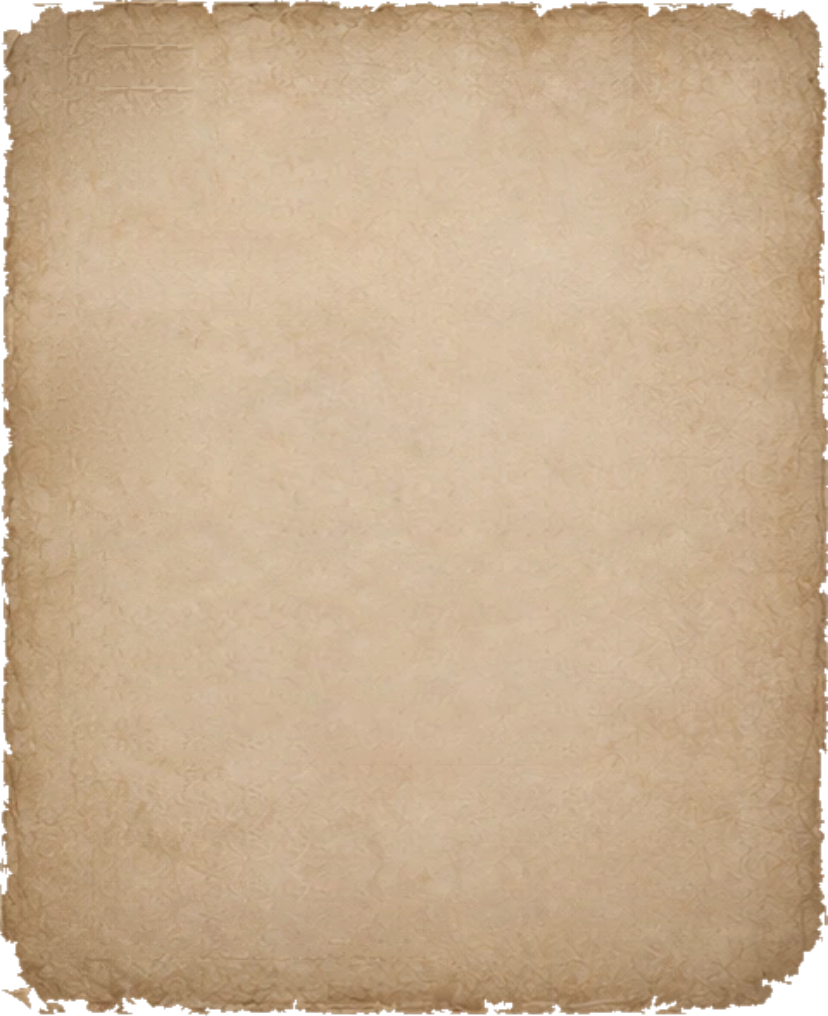
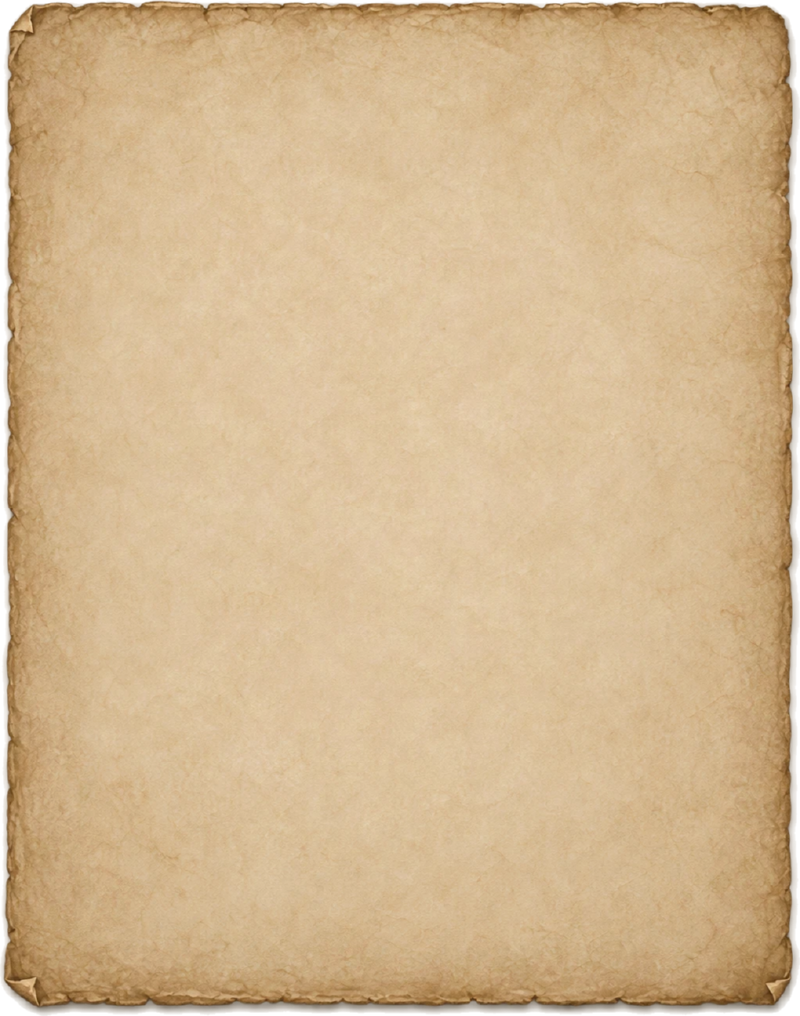
Launcher: the artist's whole-panel pictures for the card and the settings
card-left and card-settings are now the artist's own panels of 2026-11-08,
cut out by PaperTool cutout (the settings one's printed rule painted out: the
launcher draws its rule beside "Settings"). The settings art carries its own
gold frame and star corners, so the corner ornament is no longer drawn over it
(its picture is removed).

diff --git a/tools/launcher-art/PaperTool/Program.cs b/tools/launcher-art/PaperTool/Program.cs
@@ -7,6 +7,8 @@
 //   PaperTool card <mockup.png> <out dir> [x0 y0 x1 y1]
 //   PaperTool settings <card-settings.png> <slice.txt> <out dir>
 //   PaperTool tone <card-settings.png> <card-left-mockup-size.png> <out.png>
+//   cutout: a whole panel the artist painted (on transparency or white), cropped, a printed rule in a box painted out,
+//     scaled to a height (0: as it is):  PaperTool cutout <in.png> <out.png> <height> <border> [rule x0 y0 x1 y1]
 using Darklands.Rendering;
 
 static int L(uint c) => (int)((((c >> 16) & 255) * 30 + ((c >> 8) & 255) * 59 + (c & 255) * 11) / 100);
@@ -27,6 +29,79 @@ if (args[0] == "settings")
     PngCodec.Write(o, Path.Combine(args[3], "card-settings.png"));
     File.WriteAllText(Path.Combine(args[3], "card-settings.slice.txt"), $"{s[0]} {bottom} {s[2]} {bottom}\n");
     Console.WriteLine($"settings {art.Width}x{art.Height} -> {o.Width}x{o.Height}, slice {s[0]} {bottom} {s[2]} {bottom}");
+    return 0;
+}
+
+if (args[0] == "cutout")
+{
+    // a whole panel painted on white: the white (and its grey shadow) reached from the border becomes transparent, the panel
+    // is cropped, an optional dark rule in a box is painted out, and it is scaled to the given height (twice the design's)
+    //   PaperTool cutout <in.png> <out.png> <height> <border> [rule x0 y0 x1 y1]
+    var src = PngCodec.Read(args[1]);
+    int w = src.Width, h = src.Height;
+    var p = (uint[])src.Argb.Clone();
+    if (args.Length >= 9)
+    {
+        int rx0 = int.Parse(args[5]), ry0 = int.Parse(args[6]), rx1 = int.Parse(args[7]), ry1 = int.Parse(args[8]);
+        // the rule: the whole box covered by the paper just below it, feathered over 8 pixels at its four sides
+        var band = ry1 - ry0;
+        var copy = (uint[])p.Clone();
+        for (var y = ry0 - 8; y < ry1 + 8; y++)
+            for (var x = rx0 - 8; x < rx1 + 8; x++)
+            {
+                var inside = Math.Min(Math.Min(x - (rx0 - 8), rx1 + 8 - 1 - x), Math.Min(y - (ry0 - 8), ry1 + 8 - 1 - y));
+                var t = Math.Clamp(inside / 8.0, 0, 1);
+                uint a = copy[y * w + x], b = copy[(y + band + 8) * w + x];
+                double Mix(int s) => (a >> s & 255) * (1 - t) + (b >> s & 255) * t;
+                p[y * w + x] = a & 0xFF000000 | Rgb(Mix(16), Mix(8), Mix(0), 0) & 0xFFFFFF;
+            }
+    }
+    var back = new bool[w * h];
+    var qq = new Queue<int>();
+    bool White(uint c) => c >> 24 < 24 || Sat(c) < 30 && L(c) > 150;
+    void Visit(int i) { if (!back[i] && White(p[i])) { back[i] = true; qq.Enqueue(i); } }
+    for (var x = 0; x < w; x++) { Visit(x); Visit((h - 1) * w + x); }
+    for (var y = 0; y < h; y++) { Visit(y * w); Visit(y * w + w - 1); }
+    while (qq.Count > 0)
+    {
+        var i = qq.Dequeue(); int x = i % w, y = i / w;
+        if (x > 0) Visit(i - 1); if (x < w - 1) Visit(i + 1); if (y > 0) Visit(i - w); if (y < h - 1) Visit(i + w);
+    }
+    int x0 = w, y0 = h, x1 = 0, y1 = 0;
+    for (var y = 0; y < h; y++) for (var x = 0; x < w; x++) if (!back[y * w + x]) { x0 = Math.Min(x0, x); x1 = Math.Max(x1, x); y0 = Math.Min(y0, y); y1 = Math.Max(y1, y); }
+    int pw = x1 - x0 + 1, ph = y1 - y0 + 1;
+    var cut = new uint[pw * ph];
+    for (var y = 0; y < ph; y++)
+        for (var x = 0; x < pw; x++)
+        {
+            int i = (y0 + y) * w + x0 + x;
+            if (back[i]) continue;
+            // the outermost pixels, touching the white, half see-through (and their white fringe darkened away)
+            var n = 0;
+            if (x0 + x > 0 && back[i - 1]) n++; if (x0 + x < w - 1 && back[i + 1]) n++; if (y0 + y > 0 && back[i - w]) n++; if (y0 + y < h - 1 && back[i + w]) n++;
+            cut[y * pw + x] = p[i] & 0xFFFFFF | (uint)((p[i] >> 24) * (n == 0 ? 255 : Math.Max(60, 255 - 70 * n)) / 255) << 24;
+        }
+    var height = int.Parse(args[3]) is > 0 and var asked ? asked : ph;
+    var width = (int)Math.Round((double)pw * height / ph);
+    var o = new RgbaImage(width, height);
+    for (var y = 0; y < height; y++)
+        for (var x = 0; x < width; x++)
+        {
+            // a box filter (the picture is reduced)
+            double fx0 = (double)x * pw / width, fx1 = (double)(x + 1) * pw / width, fy0 = (double)y * ph / height, fy1 = (double)(y + 1) * ph / height;
+            double a = 0, r = 0, g = 0, b = 0, n = 0;
+            for (var sy = (int)fy0; sy < Math.Min(ph, (int)Math.Ceiling(fy1)); sy++)
+                for (var sx = (int)fx0; sx < Math.Min(pw, (int)Math.Ceiling(fx1)); sx++)
+                {
+                    var c = cut[sy * pw + sx]; double al = c >> 24;
+                    a += al; r += (c >> 16 & 255) * al; g += (c >> 8 & 255) * al; b += (c & 255) * al; n++;
+                }
+            o.Argb[y * width + x] = a < 1 ? 0 : Rgb(r / a, g / a, b / a, (int)Math.Round(a / n));
+        }
+    PngCodec.Write(o, args[2]);
+    var border = int.Parse(args[4]);
+    File.WriteAllText(Path.ChangeExtension(args[2], null) + ".slice.txt", $"{border} {border} {border} {border}\n");
+    Console.WriteLine($"{args[1]}: panel {x0},{y0} {pw}x{ph} -> {width}x{height}, slice {border}");
     return 0;
 }
 

diff --git a/src/Darklands.Launcher/LauncherScreen.cs b/src/Darklands.Launcher/LauncherScreen.cs
@@ -723,7 +723,11 @@ internal sealed class LauncherScreen
         var settings = SettingsFrame(v);
         CardShadow(canvas, settings, v);
         Parchment(canvas, settings, v, "card-settings", 23);
-        Corners(canvas, settings, v);
+        if (Assets.Art("card-settings") is null)
+        {
+            // the panel's art has its own corners
+            Corners(canvas, settings, v);
+        }
     }
 
     /// <summary>The painting (or a dusk gradient without it), enlarged around its focus to cover the window, darkened at the edges.</summary>

diff --git a/tools/launcher-art/ASSETS.md b/tools/launcher-art/ASSETS.md
@@ -26,9 +26,9 @@ stand-in in code. Art is made at **twice the design's size**.
 | name | on the design | how it is drawn |
 |---|---|---|
 | `background` | the whole window | 16:9, no transparency; at least 1920 x 1080, ideally 2560 x 1440. Enlarged until it covers the window, keeping its **focus** (the castle: 30.5% across, 34% down the 2026-11-08 painting) at (660, 318), in the gap between the panels; darkened at the edges and behind the title in code. A new painting with its focus elsewhere: change `FocusX`/`FocusY` in LauncherScreen.cs. |
-| `card-left` + slice | 414 x 508 | the left card, in nine slices; its corners at half their pixels (a 120-pixel corner is 60 design pixels). The 2026-11-08 one is the mock-up's own paper, its text painted out by `PaperTool card` (the art sheet's crumpled card was set aside for it). |
-| `card-settings` + slice | 494 x 692 | the settings panel, in nine slices. As in the mock-up, "Settings" is written in ink on the paper: the art sheet's dark header band was replaced by its bottom row flipped (`PaperTool settings`) and its paper brought to the card's colour (`PaperTool tone`). Art WITH a dark band at least 40 pixels tall (found down the top-left corner's middle) still gets "Settings" in cream on it. |
-| `corner` | 60 x 60 | the TOP-LEFT bronze corner; mirrored to the panel's four corners, reaching 9 design pixels past them. |
+| `card-left` + slice | 414 x 508 | the left card, in nine slices; its corners at half their pixels (a 120-pixel corner is 60 design pixels). The one in place is the artist's whole-card picture of 2026-11-08 (on transparency), cut out and reduced by `PaperTool cutout`. |
+| `card-settings` + slice | 494 x 692 | the settings panel, in nine slices. As in the mock-up, "Settings" is written in ink on the paper. The one in place is the artist's whole-panel picture of 2026-11-08, with its own gold frame and star corners (so `corner` is not drawn over it), cut out by `PaperTool cutout`, its printed rule painted out (the launcher draws the rule beside "Settings"). Art WITH a dark band at least 40 pixels tall (found down the top-left corner's middle) still gets "Settings" in cream on it. |
+| `corner` | 60 x 60 | (not in place: the settings art has its corners) the TOP-LEFT bronze corner, drawn only without `card-settings`; mirrored to the panel's four corners, reaching 9 design pixels past them. |
 | `fleuron` | 20-26 high | the fleur-de-lis at the middle of the rules. |
 | `rule-left`, `rule-right` | 5-7 high | the rule's two halves; the knob end (three times the rule's height) keeps its shape, the taper stretches. |
 | `dropcap` | 46 x 46 | the illuminated capitals' frame, WITHOUT the letter (drawn on it in cream). |
